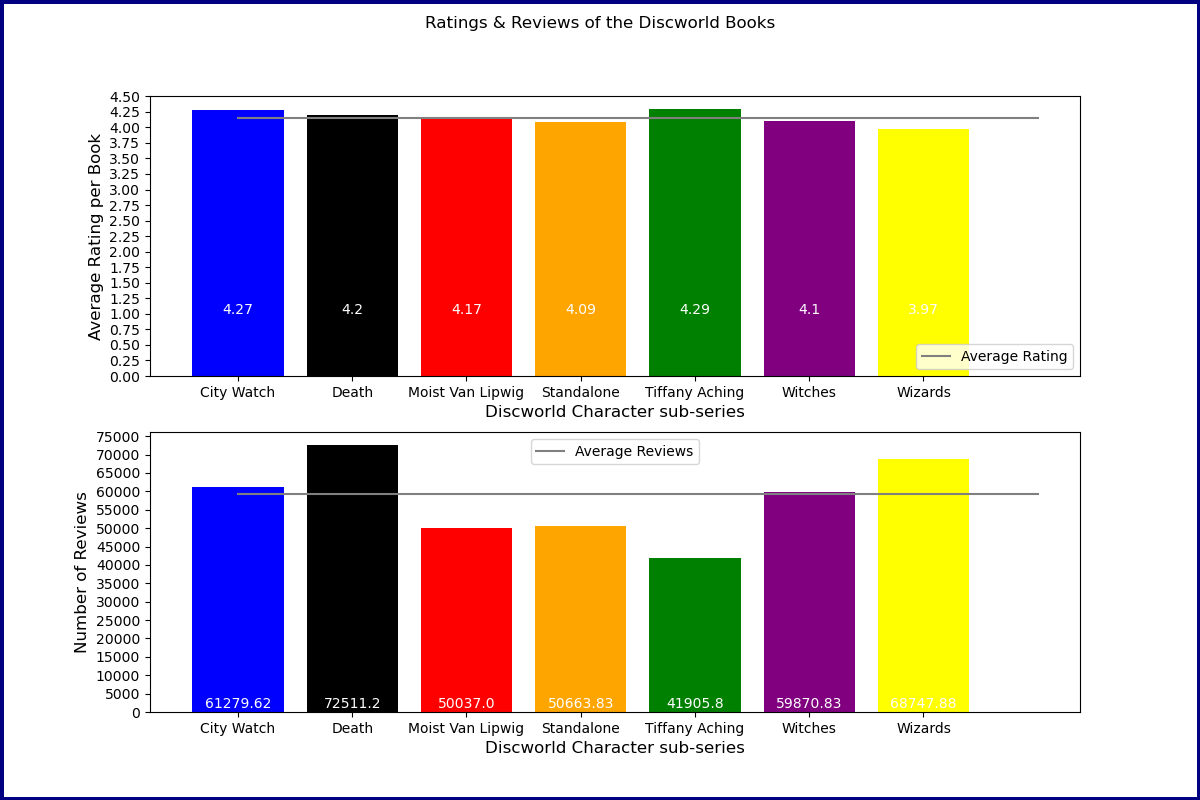
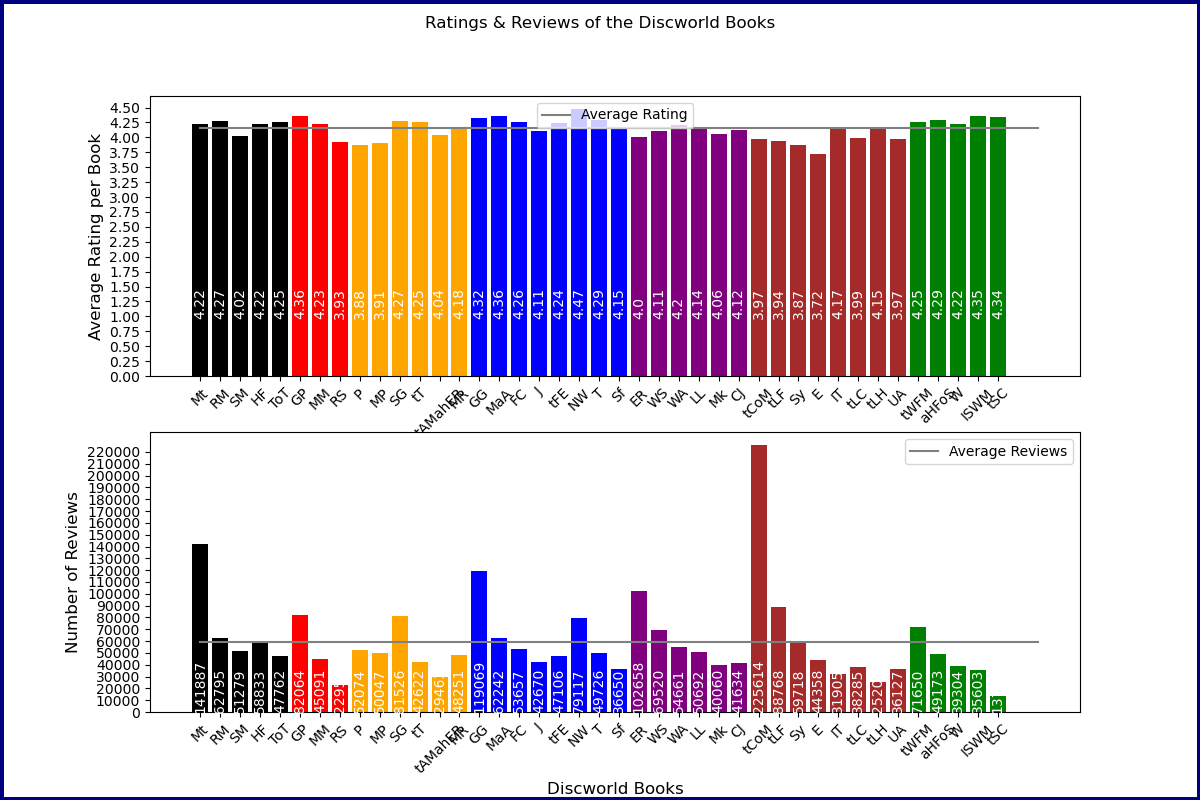
More detail on graphs

diff --git a/main.py b/main.py
@@ -555,12 +555,10 @@ character_rating = archive_books_join_sort.groupby('Label').agg(np.mean)['Averag
 
 colour_list = extract_colours(archive_books_join_sort[['Label', 'Colour']].value_counts().index[:].tolist())
 plt.subplot(211)
-plt.xlabel("Discworld Character sub-series", fontsize=12)
-plt.ylabel("Average Rating per Book", fontsize=12)
+plt.xlabel("Discworld Character Series", fontsize=12)
+plt.ylabel("Average Rating per Series", fontsize=12)
 for y in range(len(character_rating)):
-    print(character_rating.index)
-    print(y, character_rating.index[y])
-    plt.text(y, 1, round(character_rating[y], 2), ha='center', color='grey')
+    plt.text(y, 1, round(character_rating[y], 2), ha='center', color='white')
 plt.yticks(np.arange(0, 5, 0.25))
 plt.plot([0, 7], [4.15, 4.15], color='grey', label='Average Rating')
 plt.bar(x=character_rating.index, height=character_rating, color=colour_list)
@@ -568,12 +566,10 @@ plt.legend()
 
 character_reviews = archive_books_join_sort.groupby('Label').agg(np.mean)['Total_Reviews']
 plt.subplot(212)
-plt.xlabel("Discworld Character sub-series", fontsize=12)
+plt.xlabel("Discworld Character Series", fontsize=12)
 plt.ylabel("Number of Reviews", fontsize=12)
 for y in range(len(character_rating)):
-    print(character_reviews.index)
-    print(y, character_reviews.index[y])
-    plt.text(y, 1000, round(character_reviews[y], 2), ha='center', color='grey')
+    plt.text(y, 1500, math.floor(round(character_reviews[y], 0)), ha='center', color='white')
 plt.yticks(np.arange(0, 80000, 5000))
 plt.plot([0, 7], [59162, 59162], color='grey', label='Average Reviews')
 plt.bar(x=character_reviews.index, height=character_reviews, color=colour_list)
@@ -588,32 +584,33 @@ save_image(save_name)
 
 save_name = bar_books('Ratings & Reviews of the Discworld Books')
 
-character_rating = archive_books_join_sort.groupby('Label').agg(np.mean)['Average_Rating']
+book_rating = pd.Series(archive_books_join_sort['Average_Rating'].values,
+                        index=archive_books_join_sort['Short_Title'])
 
-colour_list = extract_colours(archive_books_join_sort[['Label', 'Colour']].value_counts().index[:].tolist())
+colour_list = archive_books_join_sort['Colour'].tolist()
 plt.subplot(211)
-plt.xlabel("Discworld Character sub-series", fontsize=12)
+plt.xlabel("Discworld Books", fontsize=12)
 plt.ylabel("Average Rating per Book", fontsize=12)
-for y in range(len(character_rating)):
-    print(character_rating.index)
-    print(y, character_rating.index[y])
-    plt.text(y, 1, round(character_rating[y], 2), ha='center', color='white')
+for y in range(len(book_rating)):
+    plt.text(y, 1, round(book_rating[y], 2), ha='center', rotation=90, color='white')
+plt.xticks(rotation=45)
 plt.yticks(np.arange(0, 5, 0.25))
-plt.plot([0, 7], [4.15, 4.15], color='grey', label='Average Rating')
-plt.bar(x=character_rating.index, height=character_rating, color=colour_list)
+plt.plot([0, 42], [4.15, 4.15], color='grey', label='Average Rating')
+plt.bar(x=book_rating.index, height=book_rating, color=colour_list)
 plt.legend()
 
-character_reviews = archive_books_join_sort.groupby('Label').agg(np.mean)['Total_Reviews']
+book_reviews = pd.Series(archive_books_join_sort['Total_Reviews'].values,
+                         index=archive_books_join_sort['Short_Title'])
+
 plt.subplot(212)
-plt.xlabel("Discworld Character sub-series", fontsize=12)
+plt.xlabel("Discworld Books", fontsize=12)
 plt.ylabel("Number of Reviews", fontsize=12)
-for y in range(len(character_rating)):
-    print(character_reviews.index)
-    print(y, character_reviews.index[y])
-    plt.text(y, 1000, round(character_reviews[y], 2), ha='center', color='white')
-plt.yticks(np.arange(0, 80000, 5000))
-plt.plot([0, 7], [59162, 59162], color='grey', label='Average Reviews')
-plt.bar(x=character_reviews.index, height=character_reviews, color=colour_list)
+for y in range(len(book_reviews)):
+    plt.text(y, 1500, round(book_reviews[y], 2), ha='center', rotation=90, color='white')
+plt.xticks(rotation=45)
+plt.yticks(np.arange(0, 230000, 10000))
+plt.plot([0, 42], [59162, 59162], color='grey', label='Average Reviews')
+plt.bar(x=book_reviews.index, height=book_reviews, color=colour_list)
 plt.legend()
 save_image(save_name)
 
@@ -660,5 +657,6 @@ print('---------------------------------------')
 #############################################################################
 # Render all the graphs
 #############################################################################
+
 plt.show()
 # end
